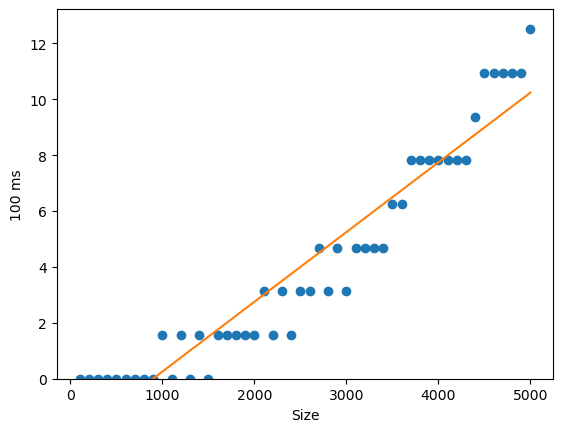
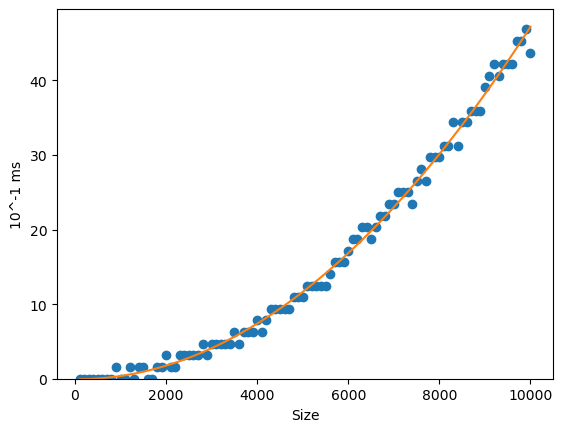
update data

diff --git a/README.md b/README.md
@@ -19,8 +19,8 @@ The time it took to run the process of single matrix vector multiplication doesn
 \
 ![img](image/time-1.png)
 
-for the time complexity, I gathered the data from my code and  you will see a linear progression on the graph\
-NOTE: The time the graph represent should be in 10<sup>-1</sup> ms, not 100 ms\
+for the time complexity, I gathered the data from my code and  you will see a exponential progression on the graph
+
 ![img](image/time_data.png)
 ## Space
 You can see the memory that the code uses by running `main_b_space.out` and the program will keep running until you terminate the program. While running the program you can see the memory it takes by looking in the task manager, below is the sample for the memory with the `SIZE` of 1000
